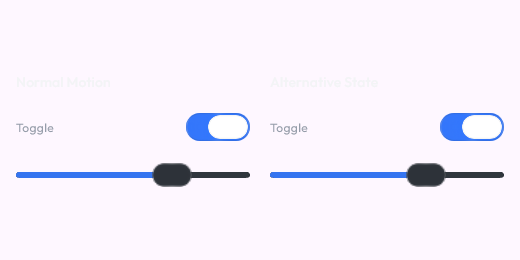
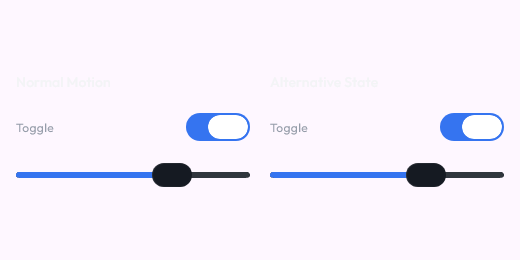
fix(designsystem): reduce light around GlassToggle track and eliminate hazeSource glow leakage

Changed region(s): [[0.7692, 0.6154, 0.8615, 0.7385], [0.2769, 0.6154, 0.3692, 0.7385]]

diff --git a/core/designsystem/src/commonMain/kotlin/org/ide/lti/core/designsystem/component/inputs/GlassToggle.kt b/core/designsystem/src/commonMain/kotlin/org/ide/lti/core/designsystem/component/inputs/GlassToggle.kt
@@ -57,7 +57,6 @@ import dev.chrisbanes.haze.HazeInput
 import dev.chrisbanes.haze.HazeSourceSelection
 import dev.chrisbanes.haze.glass.GlassReducedMotionPolicy
 import dev.chrisbanes.haze.glass.hazeGlass
-import dev.chrisbanes.haze.hazeSource
 import kotlinx.coroutines.flow.collectLatest
 import org.ide.lti.core.designsystem.theme.AlphaTokens
 import org.ide.lti.core.designsystem.theme.AppTheme
@@ -190,30 +189,16 @@ fun GlassToggle(
 
     val focusBorderModifier = if (isFocused) {
         Modifier.border(
-            width = GlassDimens.HairlineBorder * 2,
-            color = colors.primary,
+            width = GlassDimens.HairlineBorder,
+            color = colors.primary.copy(alpha = AlphaTokens.Border),
             shape = GlassShapes.HazeCapsule,
         )
     } else {
         Modifier
     }
 
-    val trackModifier = if (effectsEnabled) {
-        Modifier.hazeGlass(
-            input = HazeInput.Sources(GlassTheme.hazeState),
-            style = remember(theme) {
-                GlassMaterialStyles.baseStyle(
-                    theme = theme,
-                    opticalTint = Color.Transparent,
-                    captureBacking = Color.Transparent,
-                ).then {
-                    shape(GlassShapes.HazeCapsule)
-                }
-            },
-        )
-    } else {
-        Modifier.background(currentTrackColor, GlassShapes.HazeCapsule)
-    }
+    val trackModifier = Modifier
+        .background(currentTrackColor, GlassShapes.HazeCapsule)
 
     val thumbShape = if (dimensions.thumbIsCircle) GlassShapes.Circle else GlassShapes.HazeCapsule
     val thumbSolidColor = if (enabled) colors.onSurface else colors.onSurface.copy(alpha = AlphaTokens.Ambient)
@@ -284,18 +269,7 @@ fun GlassToggle(
             .then(if (enabled) dampedDragAnimation.modifier else Modifier),
         contentAlignment = Alignment.CenterStart,
     ) {
-        // Visual Layer 1: Track Source for Refraction Backing
-        if (effectsEnabled) {
-            Box(
-                modifier = Modifier
-                    .size(width = dimensions.trackWidth, height = dimensions.trackHeight)
-                    .hazeSource(GlassTheme.hazeState, zIndex = 1f)
-                    .background(currentTrackColor, GlassShapes.HazeCapsule)
-                    .clip(GlassShapes.HazeCapsule),
-            )
-        }
-
-        // Visual Layer 2: Visual Track (64 x 28 dp)
+        // Visual Track (64 x 28 dp): clean, non-blooming background capsule
         Box(
             modifier = Modifier
                 .size(width = dimensions.trackWidth, height = dimensions.trackHeight)
